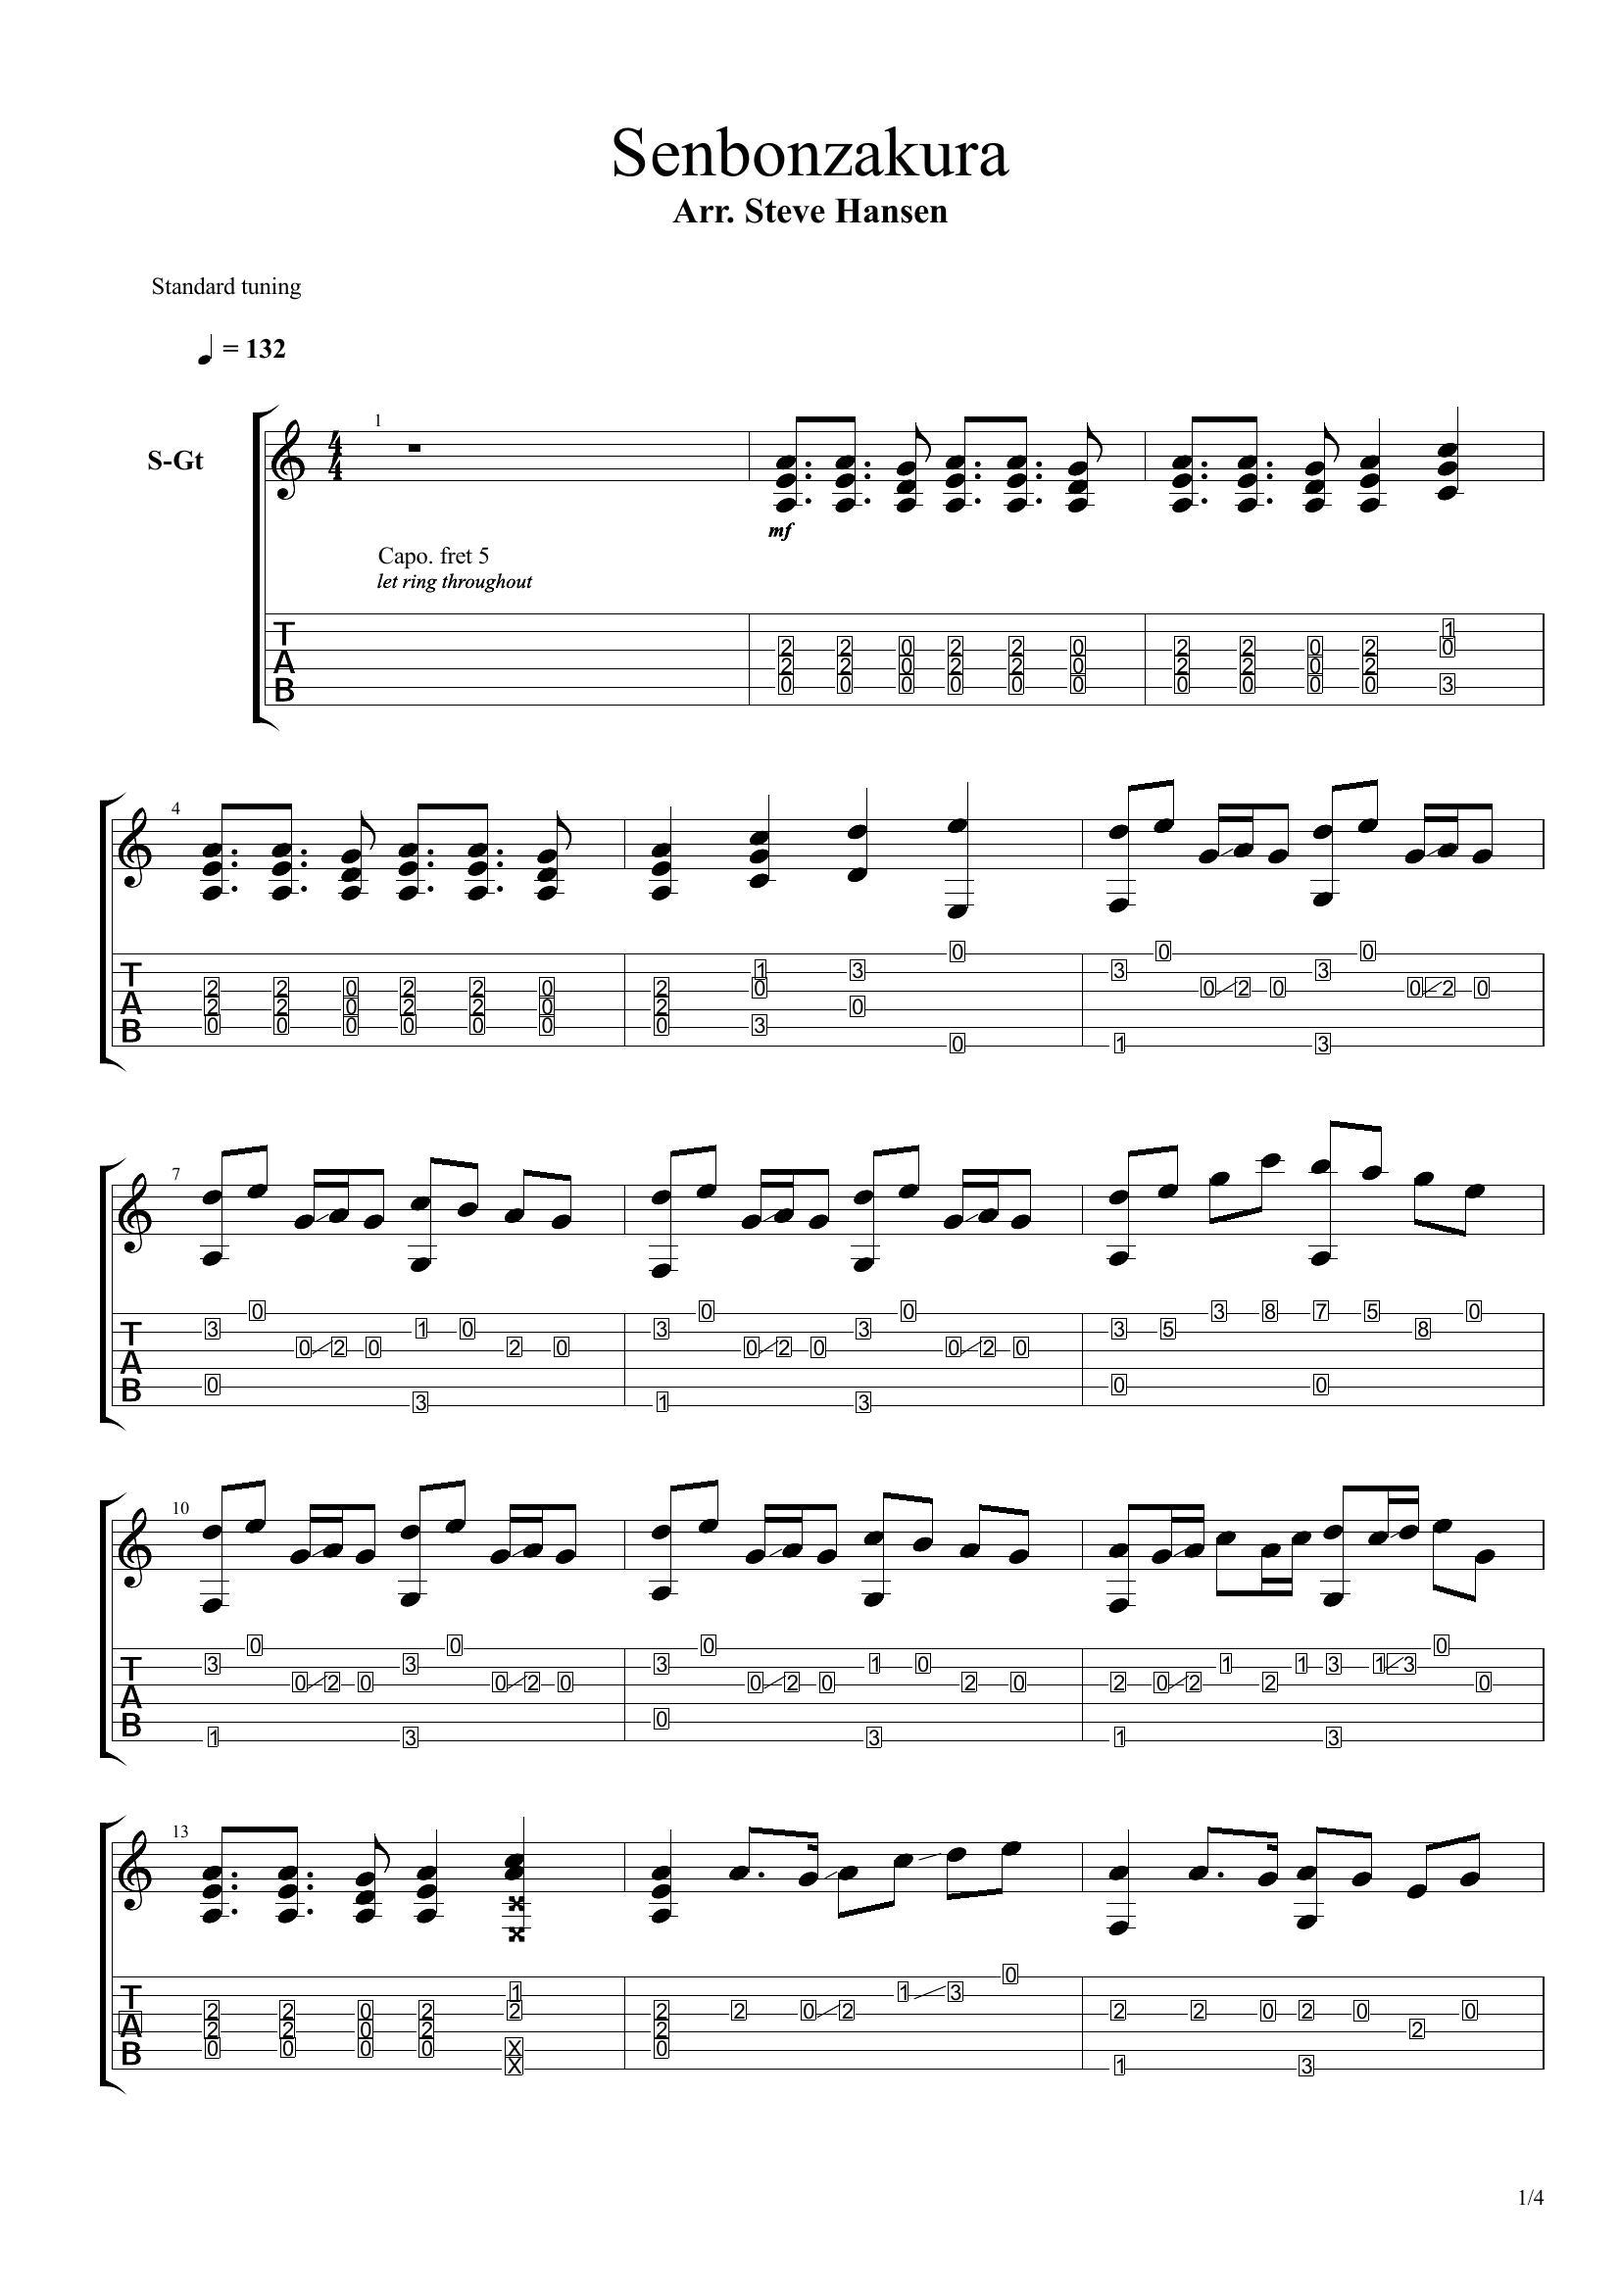
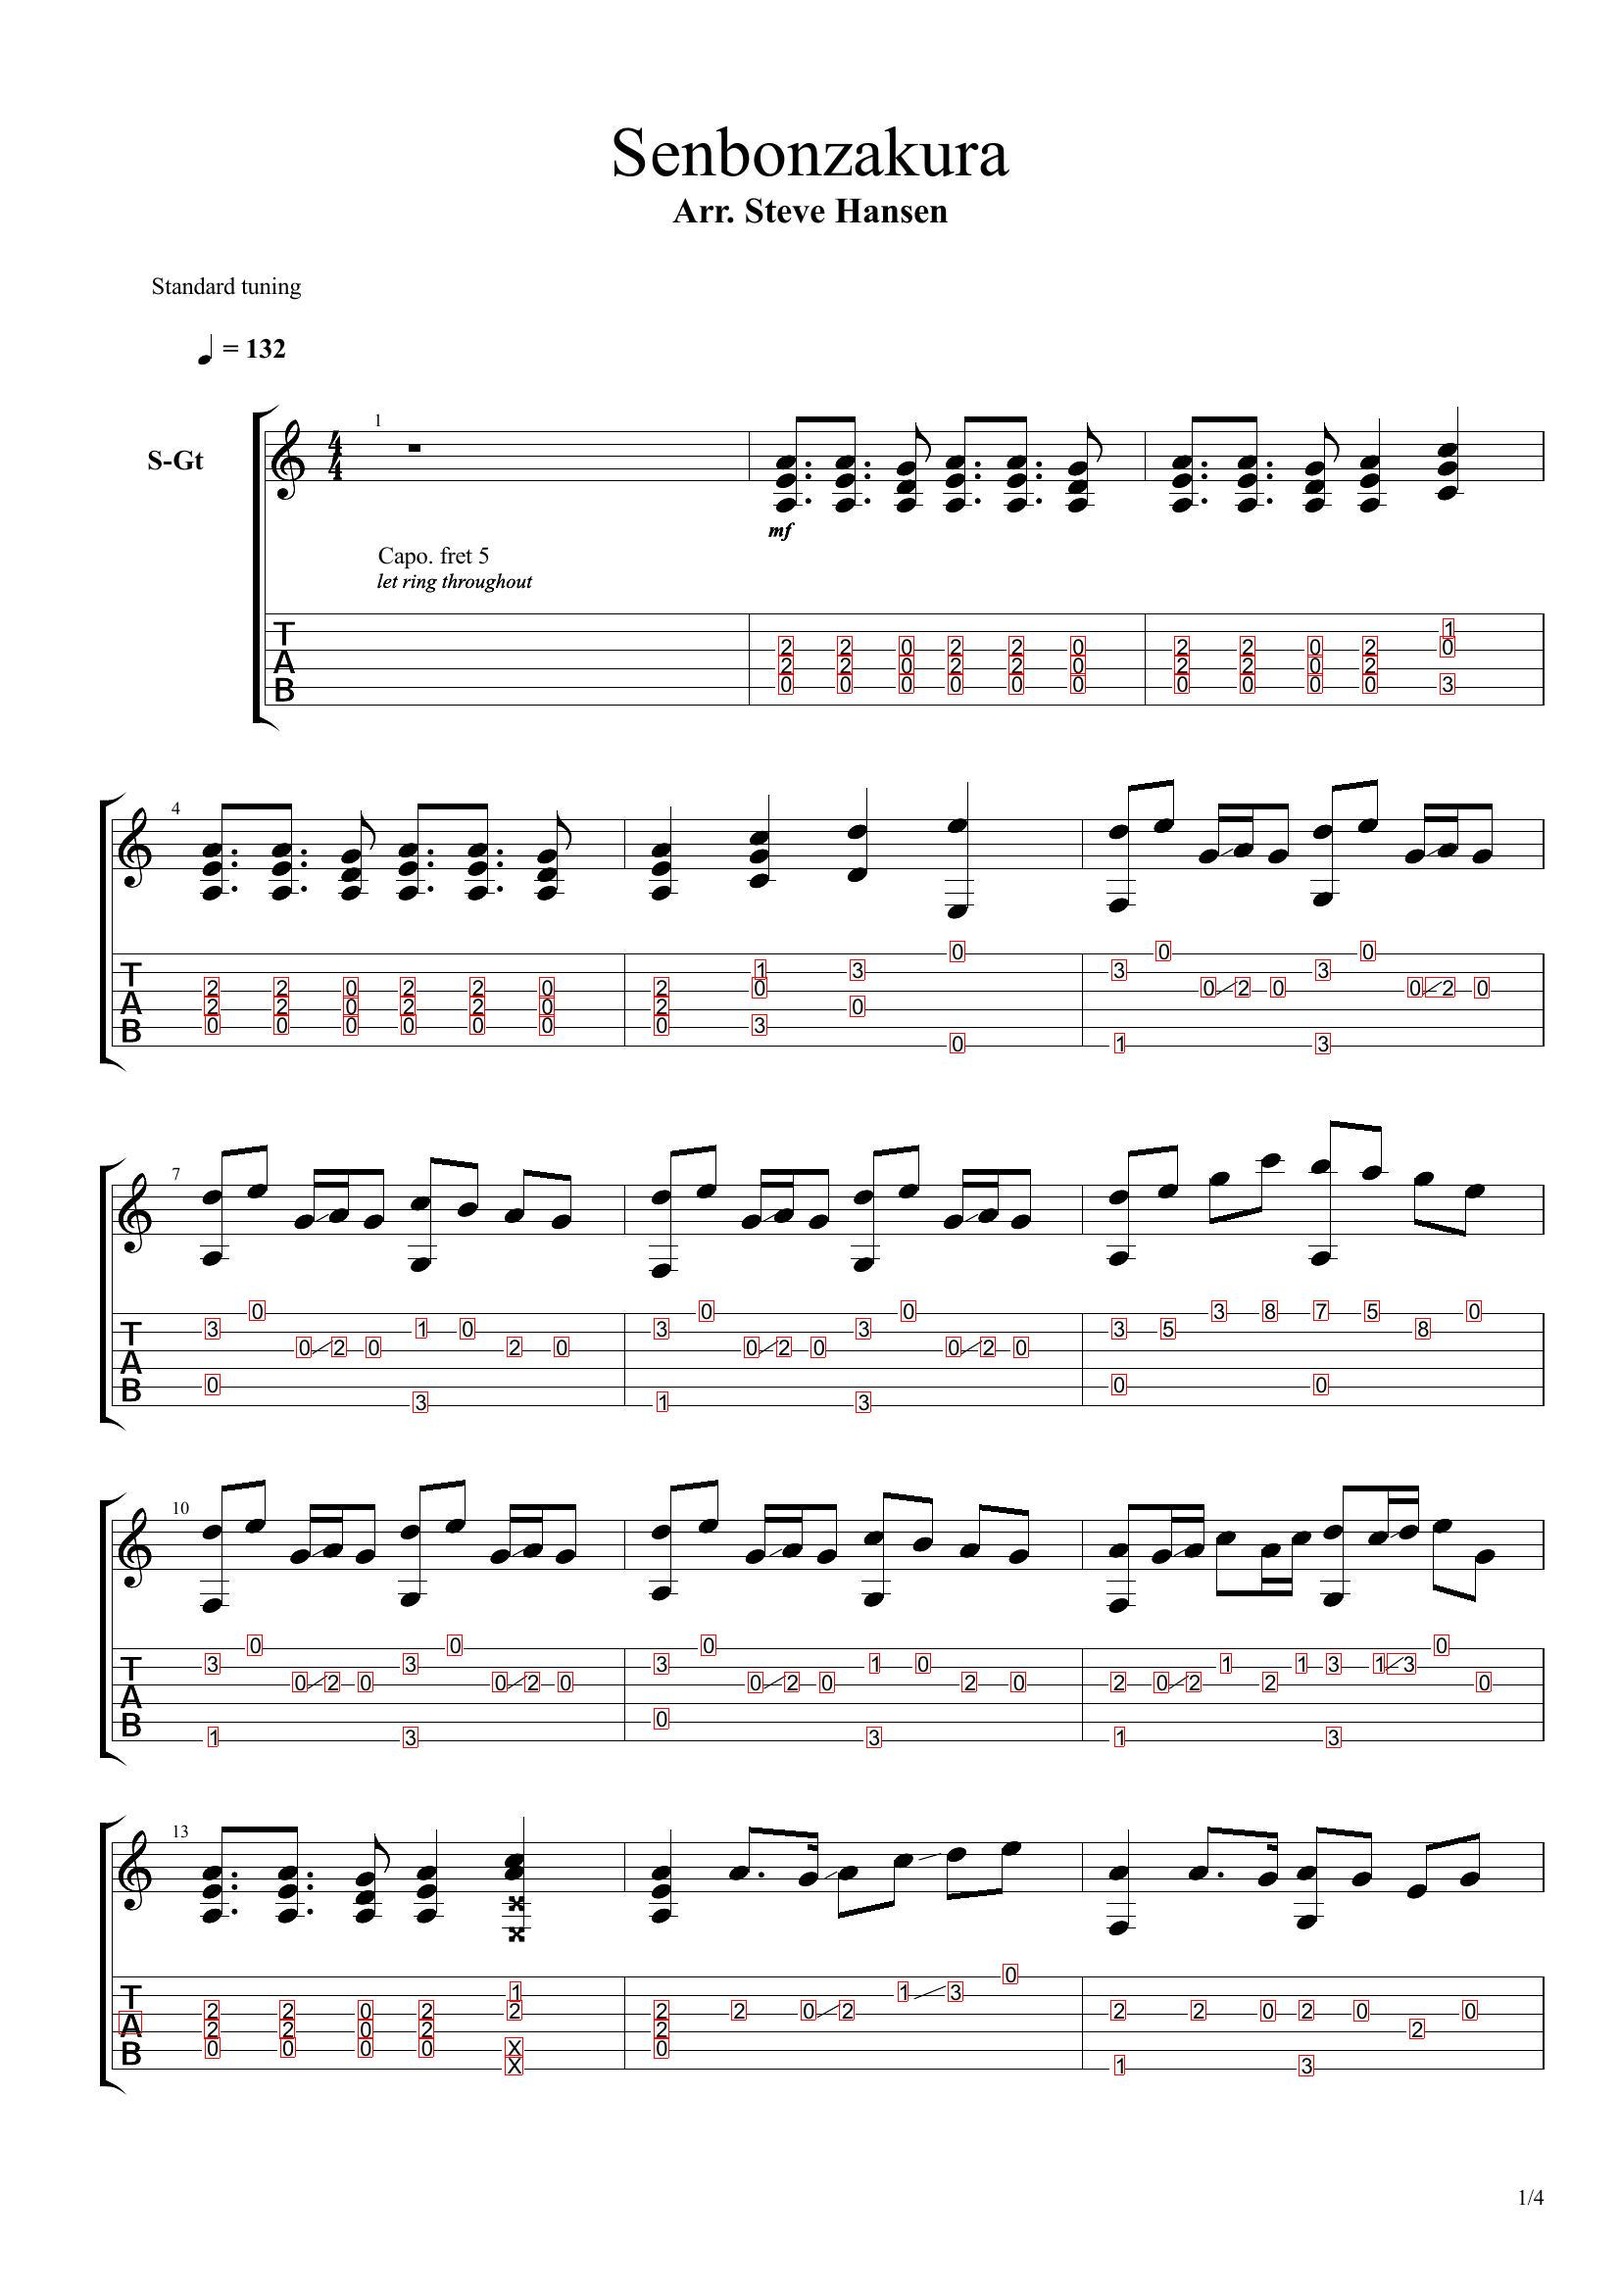
change highlight boxes to red

diff --git a/src/main.py b/src/main.py
@@ -148,7 +148,7 @@ while i < len(horizontal_lines):
 		gucci = True
 horizontal_lines = res
 
-original_data = np.array(Image.open("out1.jpg").convert("L"))
+original_data = np.array(Image.open("out1.jpg"))
 
 #perform BFS on each of the horizontal lines to identify objects
 visited = []
@@ -217,11 +217,11 @@ for i in horizontal_lines:
 			text = pytesseract.image_to_string(temp, config='--psm 10 -c tessedit_char_whitelist=0123456789X')
 			if abs(int(conf) - 20) <= 3:
 				for x in range(greatest[0] - least[0]):
-					original_data[least[1]][least[0] + x] = 0
-					original_data[greatest[1]][least[0] + x] = 0
+					original_data[least[1]][least[0] + x] = (255, 0, 0)
+					original_data[greatest[1]][least[0] + x] = (255, 0, 0)
 				for y in range(greatest[1] - least[1]):
-					original_data[least[1] + y][least[0]] = 0
-					original_data[least[1] + y][greatest[0]] = 0
+					original_data[least[1] + y][least[0]] = (255, 0, 0)
+					original_data[least[1] + y][greatest[0]] = (255, 0, 0)
 				rect = patches.Rectangle((least[0],least[1]),greatest[0]-least[0],greatest[1]-least[1],linewidth=1,edgecolor='r',facecolor='none')
 				ax.add_patch(rect)
 				print text
